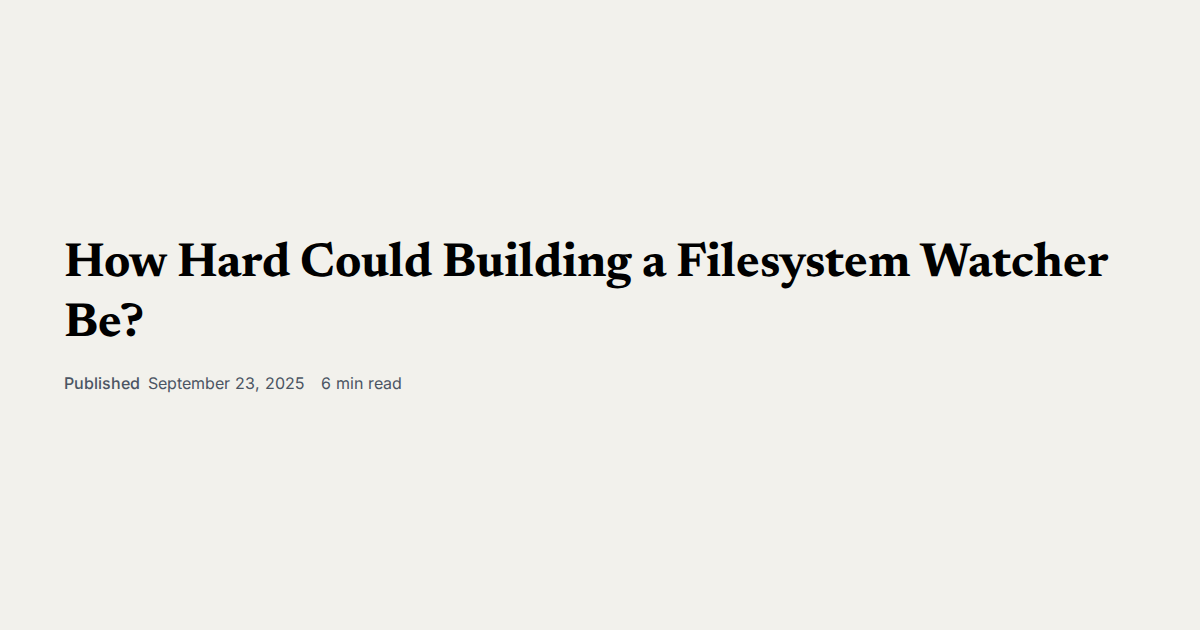
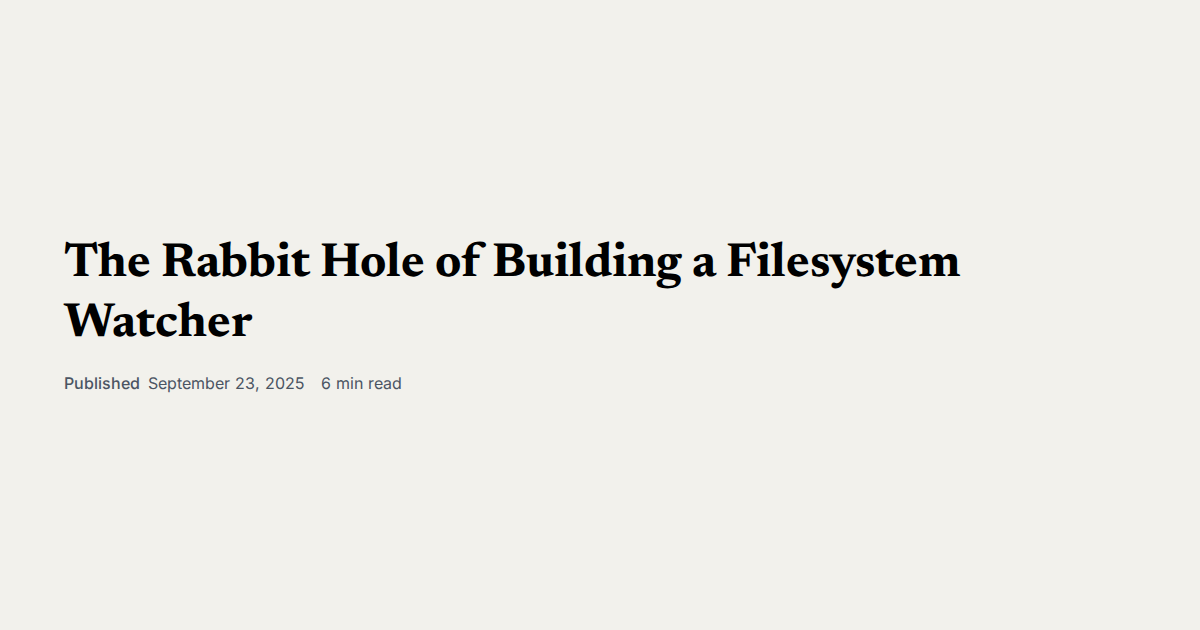
tweak: fs watcher title tweak

Changed region(s): [[0.0308, 0.3619, 0.925, 0.4524], [0.0308, 0.4825, 0.2158, 0.5429]]

diff --git a/src/content/blog/fs-watcher.md b/src/content/blog/fs-watcher.md
@@ -1,5 +1,5 @@
 ---
-title: How hard could building a Filesystem Watcher be?
+title: The Rabbit Hole of Building a Filesystem Watcher
 publishDate: "Sep 23 2025"
 tags:
   - ebpf
